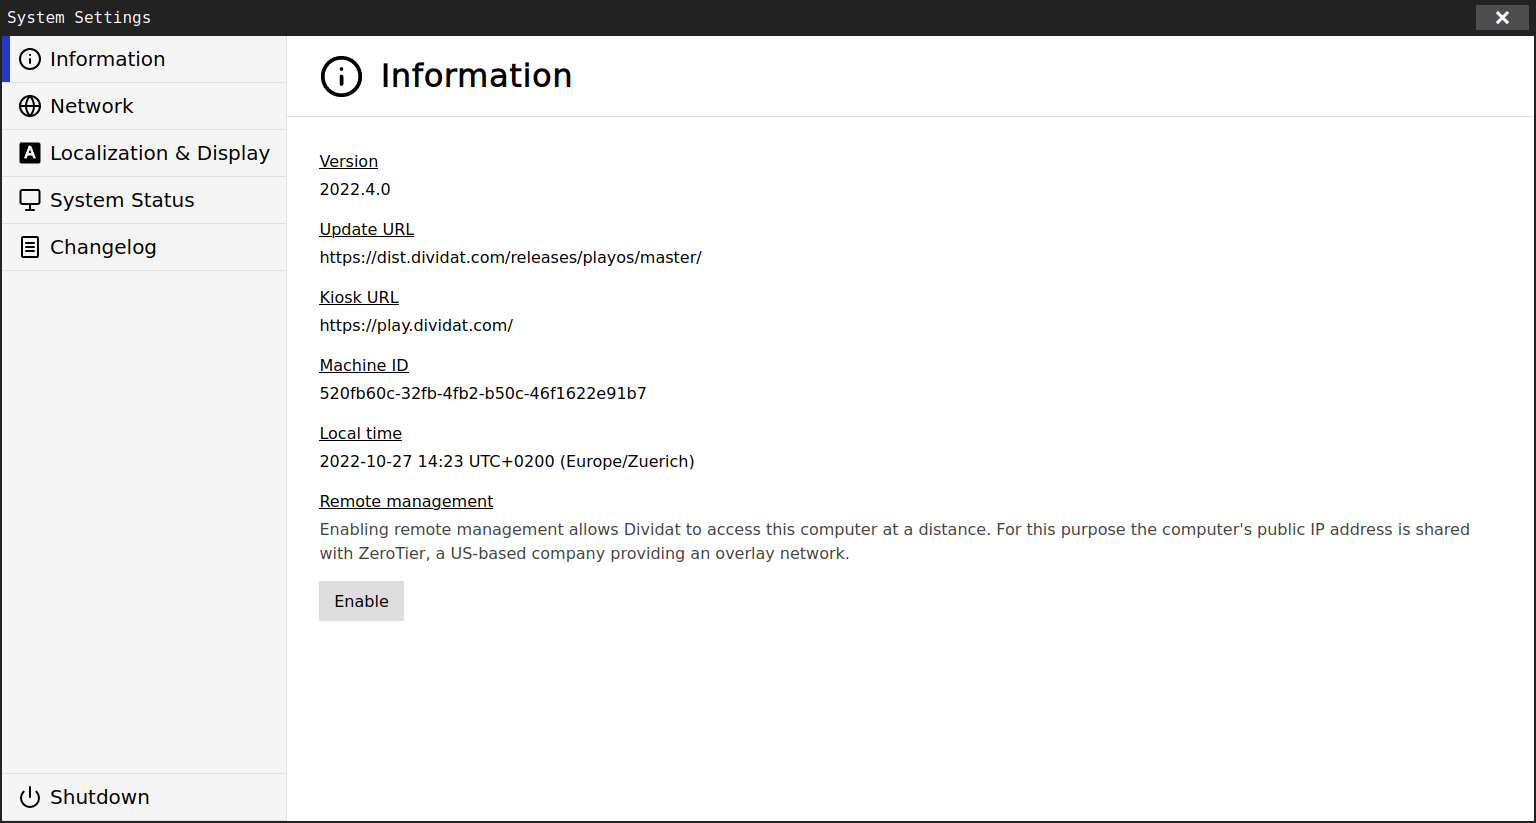
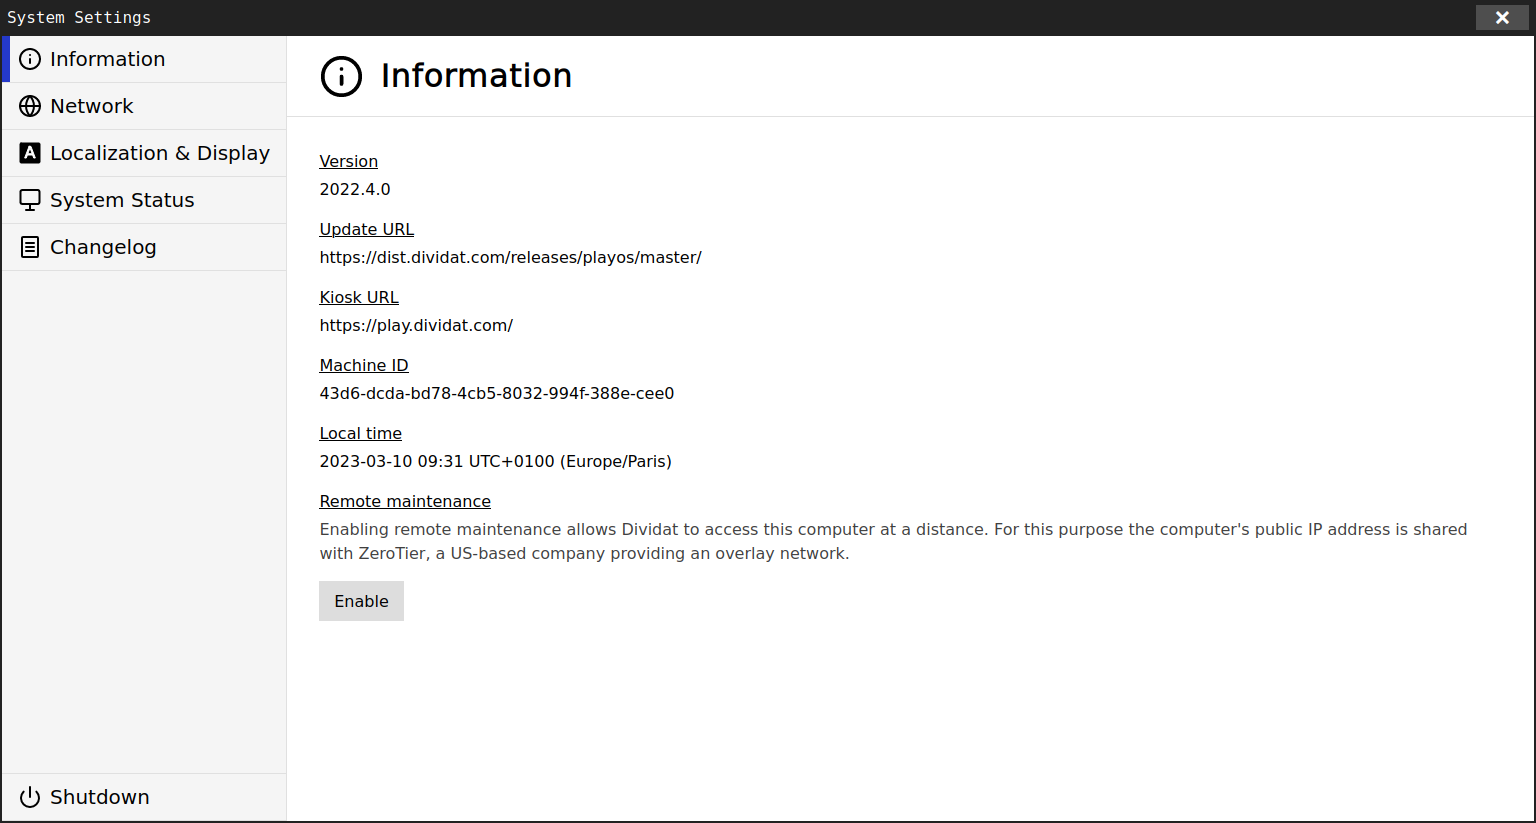
Unify remote maintenance terminology
We referred to remote maintenance sometimes as remote maintenance,
sometimes as remote management.

Unify as the more apt "remote maintenance", which better captures the
intended use of this feature: rare troubleshooting rather than routine
management.

diff --git a/controller/gui/style.css b/controller/gui/style.css
@@ -155,11 +155,11 @@ html {
 
 /* Info */
 
-.d-Info__RemoteManagementForm {
+.d-Info__RemoteMaintenanceForm {
     display: inline;
 }
 
-.d-Info__RemoteManagementAddress {
+.d-Info__RemoteMaintenanceAddress {
     margin-right: var(--spacing-dog);
 }
 
